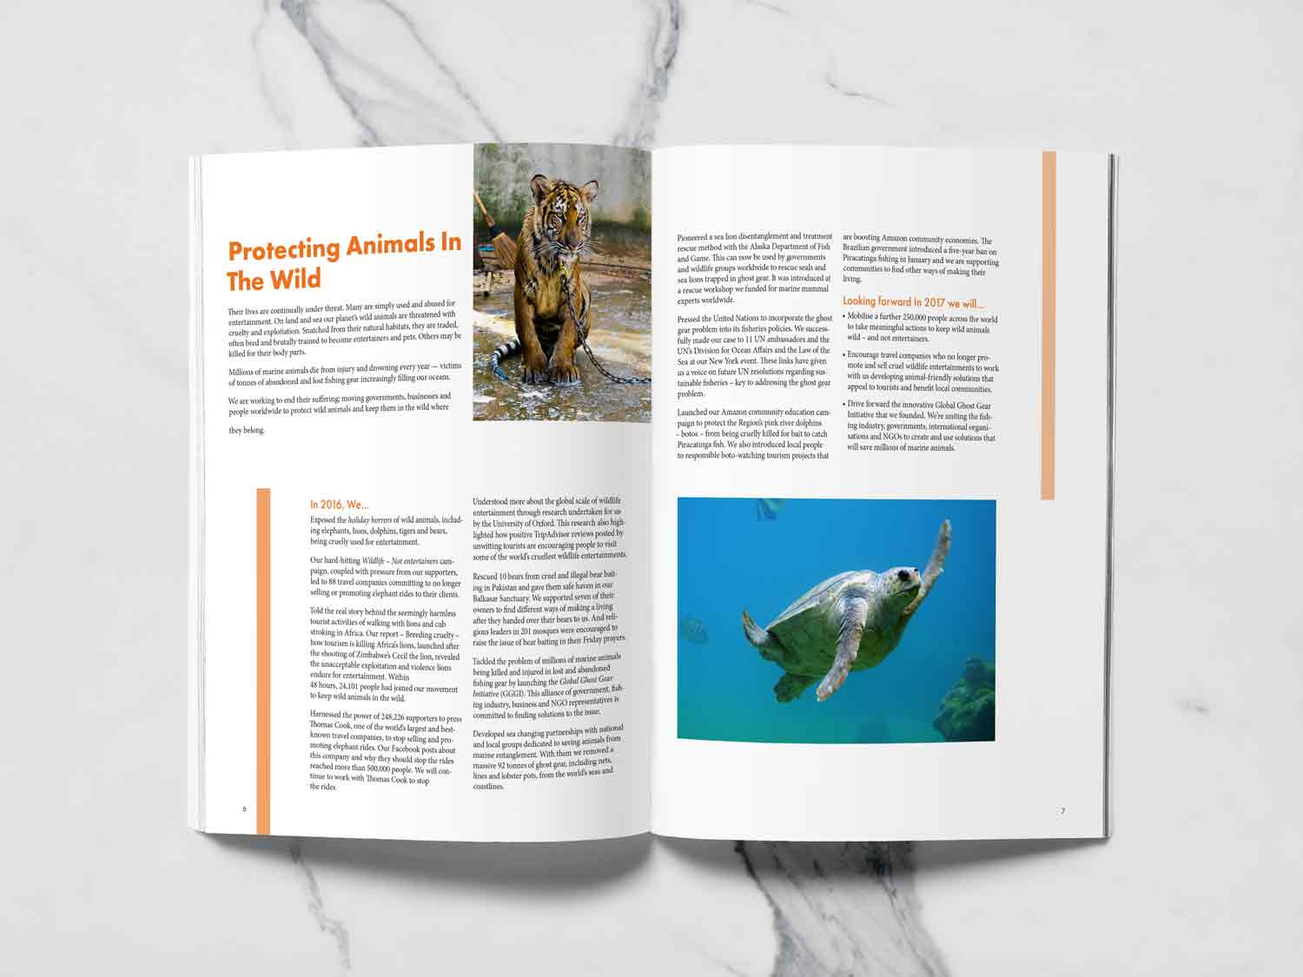
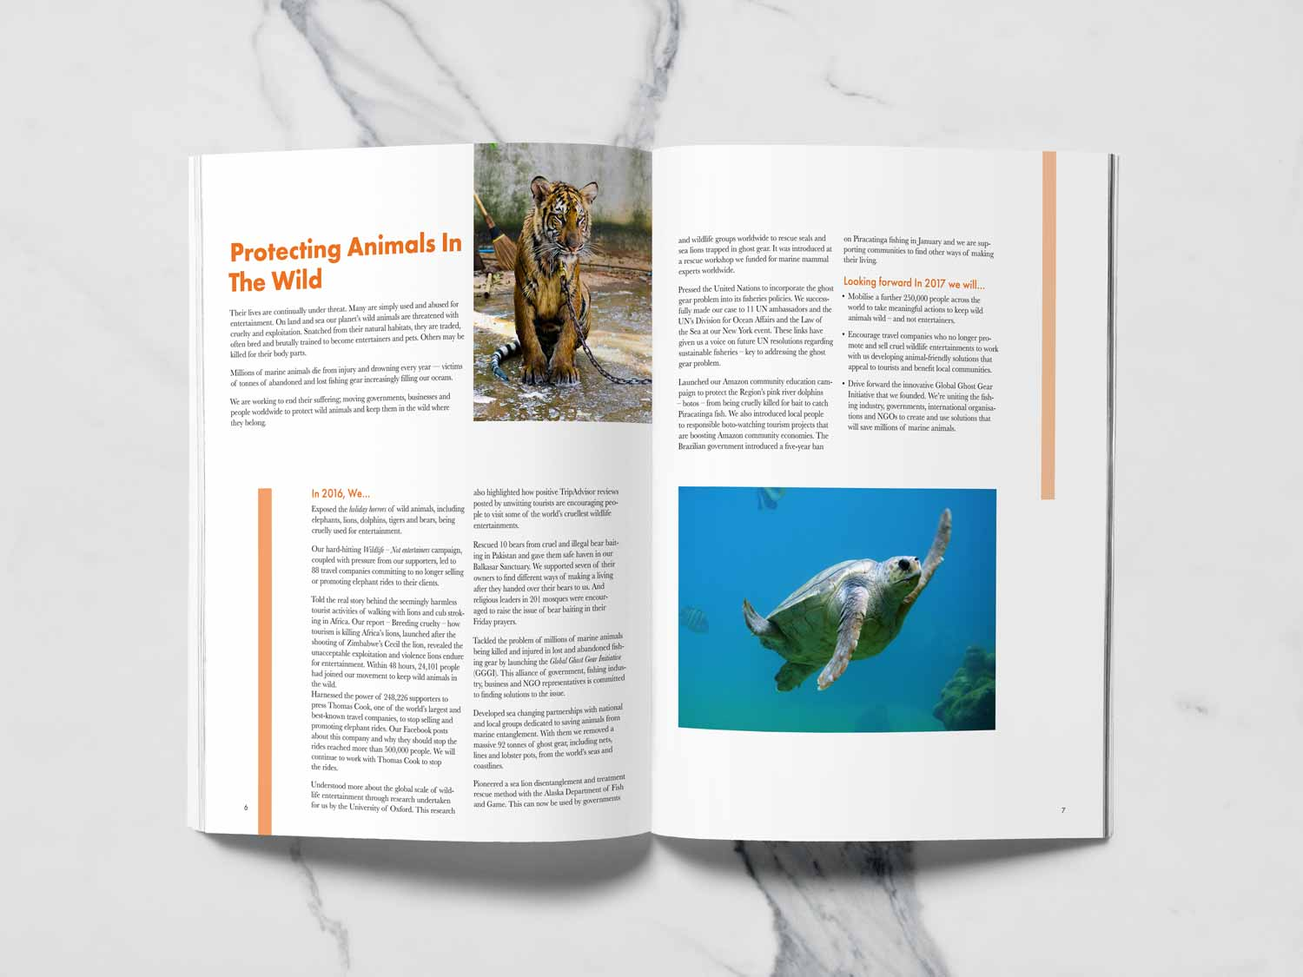
Added real images and changed header font

diff --git a/annual-report.html b/annual-report.html
@@ -1,11 +1,11 @@
 ---
 layout: default
-title: NAC Poster
+title: World Animal Protection Annual Report
 ---
 
   <main class="push-2 max-width wrapper">
     <div class="push">
-      <img itemprop="image" class="img-flex" src="https://via.placeholder.com/500x200" alt="">
+      <img itemprop="image" class="img-flex" src="{{site.baseurl}}/images/annual-report/banner.jpg" alt="">
     </div>
 
     <section class="gutter-2">
@@ -15,42 +15,42 @@ title: NAC Poster
         <img itemprop="image" class="embed-item center-block" src="{{site.baseurl}}/images/annual-report/front-cover.jpg" alt="">
       </div>
       <div class="">
-        <h2 class="push-0" id="deco-line-section-header-long">Project Scope</h2>
-        <p class="">This is a poster design I am very proud of. It was done for a class assignment in which were given the freedom to experiment with bold typography and layout. We were provided with the content for the poster from and old dance performance at the National Arts Centre entitled Telemetry. We drew images from the NAC website and had the freedom to use them as we liked.</p>
+        <h2 class="push-0 mega" id="deco-line-section-header-long">Project Scope</h2>
+        <p class="">This project was a practice in layouts for larger scale documents. The mock client was World Animal Protection and the assignemt was to design their annual report for 2016. It had to be in full colour with real images from their website.</p>
         <div class="push-2">
-          <img itemprop="image" class="img-flex" src="https://via.placeholder.com/1200x300" alt="">
+          <img itemprop="image" class="img-flex" src="{{site.baseurl}}/images/annual-report/mid-banner.jpg" alt="">
         </div>
 
         <div class="grid">
           <div class="unit xs-1 s-1 m-1 l-1">
-            <h2 class="push-1-2" id="deco-line-section-header-short">Design Process</h2>
+            <h2 class="push-0 mega" id="deco-line-section-header-short">Design Process</h2>
           </div>
 
           <div class="unit xs-1 s-1 m-1 l-1 push">
-            <p class="push-1-4">After choosing the photo for my poster I started this project with sketches. I had a plan in mind for a very complex text layout and it required a lot of planning. I ended up breaking down the dance pose I had chosen into different pieces and began placing different pieces of the text into the white space to see what would make the best fit. After doing this for each piece I began trying to fit it together.</p>
+            <p class="push-1-4">Step one was determining an appropraite layotu for the book. After reading through the material I began my process by creating some sketches of possible layout designs.</p>
           </div>
           <div class="unit xs-1 s-1-2 m-1-2 l-1-2 push">
             <img itemprop="image" class="img-flex" src="https://via.placeholder.com/200" alt="">
           </div>
           <div class="unit xs-1 s-1-2 m-1-2 l-1-2 push">
-            <img itemprop="image" class="img-flex" src="https://via.placeholder.com/200" alt="">
+            <img itemprop="image" class="img-flex" src="{{site.baseurl}}/images/annual-report/text-pairing.jpg" alt="">
           </div>
 
           <div class="unit xs-1 s-1 m-1 l-1 push">
-            <p class="push-1-4">Once I had a rough idea of where I wanted to place the text I moved into Indesign and began laying out the words. This is where I was able to get a true feel for the sizes of text I could use and how well the text would fit. I decided to create six levels of font size for the graphic type so that would be some level of consistency within the design. Once I had the sizes and placement of the text laid out I added colour and placed the informational text on the poster.</p>
+            <p class="push-1-4">After deciding on the basic layout design of my report, my next step was to decide on fonts and colour. The only colour used in the World Animal Protect logo other than black is and orange colour. I decided to use this throughout the report as accent colours. Choosing a header font was also made simple by sticking with their current brand. Across their website they use Futura, so this is what I decided to use for the headers. The task now was to find a body copy font that would pair well with it. I compared all the elements of the type faces with possible serif font until I found a matching pair.</p>
           </div>
           <div class="unit xs-1 s-1-2 m-1 l-1 push">
             <img itemprop="image" class="img-flex" src="{{site.baseurl}}/images/annual-report/pages-1.jpg" alt="">
           </div>
 
           <div class="unit xs-1 s-1 m-1 l-1 push">
-            <p class="push-1-4">To bring this design to the next level I decided to tun it into a moving poster rather than just a static poster. A moving poster would allow for more interest when used on screens and the web. I also wanted to bring the static poster to the next level and do a bit of a redesign of it. I chose a new dancer photo with a different pose. Rather than using a photograph again I decided to make the dancer more artistic and created a graphic illustration of the dancer instead. Choosing a new dance pose also required me to redesign the layout of the text.</p>
+            <p class="push-1-4">Once I had some layouts sketched and my InDesign file setup, I placed in the text and broke it into appropriate pages. Once this seperation was done I was able to begin applying layout to the pages based on my sketches. This stage allowed me to work out any kinks with my original sketches as I was able to see how the amount of copy there actaully was affected the design.</p>
           </div>
-          <div class="unit xs-1 s-1-2 m-1 l-1 push">
+          <div class="unit xs-1 s-1 m-1 l-1 push">
               <img itemprop="image" class="img-flex" src="{{site.baseurl}}/images/annual-report/cover.jpg" alt="">
           </div>
-          <div class="unit xs-1 s-1-2 m-1 l-1 push">
-            <p class="push-1-4">Once the new layout was created all that was left was to add movement to the words and the dancer. By placing all the text on different layers I was able to manipulate the text word by word and have them move with the dancer as he moves through his jump. This added even more depth and movement to the already dynamic poster design and brought it to the next level.</p>
+          <div class="unit xs-1 s-1 m-1 l-1 push">
+            <p class="push-1-4">The final product is a clean layout with a good balance of white space, text, and images. The colour accents are subtle yet pop on the page to make one cohesive piece.</p>
           </div>
         </div>
       </div>

diff --git a/type-layouts.html b/type-layouts.html
@@ -1,24 +1,24 @@
 ---
 layout: default
-title: NAC Poster
+title: Typography Layouts
 ---
 
   <main class="push-2 max-width wrapper">
     <div class="push">
-      <img itemprop="image" class="img-flex" src="{{site.baseurl}}/images/nac-poster/banner.jpg" alt="">
+      <img itemprop="image" class="img-flex" src="https://via.placeholder.com/500x200" alt="">
     </div>
 
     <section class="gutter-2">
-      <h1 itemprop="name" class="center-text normal">National Arts Centre Poster</h1>
+      <h1 itemprop="name" class="center-text normal">World Animal Protection Annual Report</h1>
 
       <div class="push-2 embed embed-3by2">
-        <img itemprop="image" class="embed-item center-block" src="{{site.baseurl}}/images/nac-poster/original-nac-poster-design.jpg" alt="">
+        <img itemprop="image" class="embed-item center-block" src="{{site.baseurl}}/images/annual-report/front-cover.jpg" alt="">
       </div>
       <div class="">
         <h2 class="push-0" id="deco-line-section-header-long">Project Scope</h2>
         <p class="">This is a poster design I am very proud of. It was done for a class assignment in which were given the freedom to experiment with bold typography and layout. We were provided with the content for the poster from and old dance performance at the National Arts Centre entitled Telemetry. We drew images from the NAC website and had the freedom to use them as we liked.</p>
         <div class="push-2">
-          <img itemprop="image" class="img-flex" src="{{site.baseurl}}/images/nac-poster/small-banner.jpg" alt="">
+          <img itemprop="image" class="img-flex" src="https://via.placeholder.com/1200x300" alt="">
         </div>
 
         <div class="grid">
@@ -26,33 +26,30 @@ title: NAC Poster
             <h2 class="push-1-2" id="deco-line-section-header-short">Design Process</h2>
           </div>
 
-          <div class="unit xs-1 s-1 m-1 l-1">
+          <div class="unit xs-1 s-1 m-1 l-1 push">
             <p class="push-1-4">After choosing the photo for my poster I started this project with sketches. I had a plan in mind for a very complex text layout and it required a lot of planning. I ended up breaking down the dance pose I had chosen into different pieces and began placing different pieces of the text into the white space to see what would make the best fit. After doing this for each piece I began trying to fit it together.</p>
           </div>
-          <div class="unit xs-1 s-1-2 m-1-2 l-1-2 push-2">
-            <img itemprop="image" class="img-flex" src="{{site.baseurl}}/images/nac-poster/sketches.jpg" alt="">
+          <div class="unit xs-1 s-1-2 m-1-2 l-1-2 push">
+            <img itemprop="image" class="img-flex" src="https://via.placeholder.com/200" alt="">
           </div>
-          <div class="unit xs-1 s-1-2 m-1-2 l-1-2 push-2">
-            <img itemprop="image" class="img-flex" src="{{site.baseurl}}/images/nac-poster/working.jpg" alt="">
+          <div class="unit xs-1 s-1-2 m-1-2 l-1-2 push">
+            <img itemprop="image" class="img-flex" src="https://via.placeholder.com/200" alt="">
           </div>
 
-          <div class="unit xs-1 s-1 m-1 l-1">
+          <div class="unit xs-1 s-1 m-1 l-1 push">
             <p class="push-1-4">Once I had a rough idea of where I wanted to place the text I moved into Indesign and began laying out the words. This is where I was able to get a true feel for the sizes of text I could use and how well the text would fit. I decided to create six levels of font size for the graphic type so that would be some level of consistency within the design. Once I had the sizes and placement of the text laid out I added colour and placed the informational text on the poster.</p>
           </div>
-          <div class="unit xs-1 s-1-2 m-1 l-1 push-2">
-            <img itemprop="image" class="img-flex" src="{{site.baseurl}}/images/nac-poster/redesigned-nac-poster-design.jpg" alt="">
+          <div class="unit xs-1 s-1-2 m-1 l-1 push">
+            <img itemprop="image" class="img-flex" src="{{site.baseurl}}/images/annual-report/pages-1.jpg" alt="">
           </div>
 
-          <div class="unit xs-1 s-1 m-1 l-1">
+          <div class="unit xs-1 s-1 m-1 l-1 push">
             <p class="push-1-4">To bring this design to the next level I decided to tun it into a moving poster rather than just a static poster. A moving poster would allow for more interest when used on screens and the web. I also wanted to bring the static poster to the next level and do a bit of a redesign of it. I chose a new dancer photo with a different pose. Rather than using a photograph again I decided to make the dancer more artistic and created a graphic illustration of the dancer instead. Choosing a new dance pose also required me to redesign the layout of the text.</p>
           </div>
-          <div class="unit xs-1 s-1-2 m-1 l-1 push-2">
-            <div style="padding:64.63% 0 0 0;position:relative;">
-              <iframe src="https://player.vimeo.com/video/297625784?autoplay=1&loop=1" style="position:absolute;top:0;left:0;width:100%;height:100%;" frameborder="0" webkitallowfullscreen mozallowfullscreen allowfullscreen></iframe>
-            </div>
-            <script src="https://player.vimeo.com/api/player.js"></script>
+          <div class="unit xs-1 s-1-2 m-1 l-1 push">
+              <img itemprop="image" class="img-flex" src="{{site.baseurl}}/images/annual-report/cover.jpg" alt="">
           </div>
-          <div class="unit xs-1 s-1-2 m-1 l-1">
+          <div class="unit xs-1 s-1-2 m-1 l-1 push">
             <p class="push-1-4">Once the new layout was created all that was left was to add movement to the words and the dancer. By placing all the text on different layers I was able to manipulate the text word by word and have them move with the dancer as he moves through his jump. This added even more depth and movement to the already dynamic poster design and brought it to the next level.</p>
           </div>
         </div>

diff --git a/skateboard-rotoscope.html b/skateboard-rotoscope.html
@@ -5,7 +5,7 @@ title: NAC Poster
 
   <main class="push-2 max-width wrapper">
     <div class="push">
-      <img itemprop="image" class="img-flex" src="https://via.placeholder.com/500x200" alt="">
+      <img itemprop="image" class="img-flex" src="{{site.baseurl}}/images/skateboard-rotoscope/banner.jpg" alt="">
     </div>
 
     <section class="gutter-2">
@@ -15,45 +15,33 @@ title: NAC Poster
         <img itemprop="image" class="embed-item center-block" src="{{site.baseurl}}/images/skateboard-rotoscope/skate-shot-1.jpg" alt="">
       </div>
       <div class="">
-        <h2 class="push-0" id="deco-line-section-header-long">Project Scope</h2>
-        <p class="">This is a poster design I am very proud of. It was done for a class assignment in which were given the freedom to experiment with bold typography and layout. We were provided with the content for the poster from and old dance performance at the National Arts Centre entitled Telemetry. We drew images from the NAC website and had the freedom to use them as we liked.</p>
+        <h2 class="push-0 mega" id="deco-line-section-header-long">Project Scope</h2>
+        <p class="">This project was a practice in rotoscoping. </p>
         <div class="push-2">
-          <img itemprop="image" class="img-flex" src="https://via.placeholder.com/1200x300" alt="">
+          <img itemprop="image" class="img-flex" src="{{site.baseurl}}/images/skateboard-rotoscope/small-banner.jpg" alt="">
         </div>
 
         <div class="grid">
           <div class="unit xs-1 s-1 m-1 l-1">
-            <h2 class="push-1-2" id="deco-line-section-header-short">Design Process</h2>
+            <h2 class="push-1-2 mega" id="deco-line-section-header-short">Design Process</h2>
           </div>
 
           <div class="unit xs-1 s-1 m-1 l-1 push">
-            <p class="push-1-4">After choosing the photo for my poster I started this project with sketches. I had a plan in mind for a very complex text layout and it required a lot of planning. I ended up breaking down the dance pose I had chosen into different pieces and began placing different pieces of the text into the white space to see what would make the best fit. After doing this for each piece I began trying to fit it together.</p>
-          </div>
-          <div class="unit xs-1 s-1-2 m-1-2 l-1-2 push">
-            <img itemprop="image" class="img-flex" src="https://via.placeholder.com/200" alt="">
-          </div>
-          <div class="unit xs-1 s-1-2 m-1-2 l-1-2 push">
-            <img itemprop="image" class="img-flex" src="https://via.placeholder.com/200" alt="">
+            <p class="push-1-4">The process here was simple. After finding video inspiration for the type of movement I wanted, I began drawing out the video in diferent frames. I chose to skip frames when drawing in the skateboarder, which created a choppy look to the video giving it a moe urban, street art feel. </p>
           </div>
 
-          <div class="unit xs-1 s-1 m-1 l-1 push">
-            <p class="push-1-4">Once I had a rough idea of where I wanted to place the text I moved into Indesign and began laying out the words. This is where I was able to get a true feel for the sizes of text I could use and how well the text would fit. I decided to create six levels of font size for the graphic type so that would be some level of consistency within the design. Once I had the sizes and placement of the text laid out I added colour and placed the informational text on the poster.</p>
-          </div>
           <div class="unit xs-1 s-1-2 m-1 l-1 push">
             <img itemprop="image" class="img-flex" src="{{site.baseurl}}/images/skateboard-rotoscope/skate-shot-2.jpg" alt="">
           </div>
 
           <div class="unit xs-1 s-1 m-1 l-1 push">
-            <p class="push-1-4">To bring this design to the next level I decided to tun it into a moving poster rather than just a static poster. A moving poster would allow for more interest when used on screens and the web. I also wanted to bring the static poster to the next level and do a bit of a redesign of it. I chose a new dancer photo with a different pose. Rather than using a photograph again I decided to make the dancer more artistic and created a graphic illustration of the dancer instead. Choosing a new dance pose also required me to redesign the layout of the text.</p>
+            <p class="push-1-4">I wanted the video to remain simple so it is purely line work with no extra effects on top.</p>
           </div>
           <div class="unit xs-1 s-1-2 m-1 l-1 push-2">
             <div style="padding:56.25% 0 0 0;position:relative;">
               <iframe src="https://player.vimeo.com/video/250324217?loop=1&title=0&byline=0&portrait=0" style="position:absolute;top:0;left:0;width:100%;height:100%;" frameborder="0" webkitallowfullscreen mozallowfullscreen allowfullscreen></iframe>
             </div>
             <script src="https://player.vimeo.com/api/player.js"></script>
-          </div>
-          <div class="unit xs-1 s-1-2 m-1 l-1 push">
-            <p class="push-1-4">Once the new layout was created all that was left was to add movement to the words and the dancer. By placing all the text on different layers I was able to manipulate the text word by word and have them move with the dancer as he moves through his jump. This added even more depth and movement to the already dynamic poster design and brought it to the next level.</p>
           </div>
         </div>
       </div>

diff --git a/vans-logo-animation.html b/vans-logo-animation.html
@@ -1,24 +1,24 @@
 ---
 layout: default
-title: NAC Poster
+title: Vans Logo Animation
 ---
 
   <main class="push-2 max-width wrapper">
     <div class="push">
-      <img itemprop="image" class="img-flex" src="{{site.baseurl}}/images/nac-poster/banner.jpg" alt="">
+      <img itemprop="image" class="img-flex" src="https://via.placeholder.com/500x200" alt="">
     </div>
 
     <section class="gutter-2">
-      <h1 itemprop="name" class="center-text normal">National Arts Centre Poster</h1>
+      <h1 itemprop="name" class="center-text normal">Vans Logo Animation</h1>
 
       <div class="push-2 embed embed-3by2">
-        <img itemprop="image" class="embed-item center-block" src="{{site.baseurl}}/images/nac-poster/original-nac-poster-design.jpg" alt="">
+        <img itemprop="image" class="embed-item center-block" src="https://via.placeholder.com/500x200" alt="">
       </div>
       <div class="">
         <h2 class="push-0" id="deco-line-section-header-long">Project Scope</h2>
-        <p class="">This is a poster design I am very proud of. It was done for a class assignment in which were given the freedom to experiment with bold typography and layout. We were provided with the content for the poster from and old dance performance at the National Arts Centre entitled Telemetry. We drew images from the NAC website and had the freedom to use them as we liked.</p>
+        <p class="">The assignment for this project was to create an animation video for an existing logo. I chose to create my based on the Vans logo because it is a brand I love and know well.</p>
         <div class="push-2">
-          <img itemprop="image" class="img-flex" src="{{site.baseurl}}/images/nac-poster/small-banner.jpg" alt="">
+          <img itemprop="image" class="img-flex" src="https://via.placeholder.com/1200x300" alt="">
         </div>
 
         <div class="grid">
@@ -27,20 +27,20 @@ title: NAC Poster
           </div>
 
           <div class="unit xs-1 s-1 m-1 l-1">
-            <p class="push-1-4">After choosing the photo for my poster I started this project with sketches. I had a plan in mind for a very complex text layout and it required a lot of planning. I ended up breaking down the dance pose I had chosen into different pieces and began placing different pieces of the text into the white space to see what would make the best fit. After doing this for each piece I began trying to fit it together.</p>
+            <p class="push-1-4">I started this process by creating some rough sketches which describe my vision for the video. I did this is a storyboard style, roughing out various stages in the video to demonstrate the stages of the animation. After this process was complete my next step was to create a style frame for the video which included all the assets I would need.</p>
           </div>
           <div class="unit xs-1 s-1-2 m-1-2 l-1-2 push-2">
-            <img itemprop="image" class="img-flex" src="{{site.baseurl}}/images/nac-poster/sketches.jpg" alt="">
+            <img itemprop="image" class="img-flex" src="https://via.placeholder.com/200" alt="">
           </div>
           <div class="unit xs-1 s-1-2 m-1-2 l-1-2 push-2">
-            <img itemprop="image" class="img-flex" src="{{site.baseurl}}/images/nac-poster/working.jpg" alt="">
+            <img itemprop="image" class="img-flex" src="https://via.placeholder.com/200" alt="">
           </div>
 
           <div class="unit xs-1 s-1 m-1 l-1">
-            <p class="push-1-4">Once I had a rough idea of where I wanted to place the text I moved into Indesign and began laying out the words. This is where I was able to get a true feel for the sizes of text I could use and how well the text would fit. I decided to create six levels of font size for the graphic type so that would be some level of consistency within the design. Once I had the sizes and placement of the text laid out I added colour and placed the informational text on the poster.</p>
+            <p class="push-1-4">One all the assets were created and I had a plan for my video it was time to start creating. </p>
           </div>
           <div class="unit xs-1 s-1-2 m-1 l-1 push-2">
-            <img itemprop="image" class="img-flex" src="{{site.baseurl}}/images/nac-poster/redesigned-nac-poster-design.jpg" alt="">
+            <img itemprop="image" class="img-flex" src="https://via.placeholder.com/500x300" alt="">
           </div>
 
           <div class="unit xs-1 s-1 m-1 l-1">

diff --git a/_layouts/default.html b/_layouts/default.html
@@ -5,7 +5,7 @@
   <title>{% if page.title %}{{page.title}} · {% endif %}Sarah Norris · Ottawa, Canada</title>
   <meta name="description" content="{{page.meta}}">
   <meta name="viewport" content="width=device-width,initial-scale=1">
-  <link href="https://fonts.googleapis.com/css?family=IBM+Plex+Mono|Open+Sans:400" rel="stylesheet">
+  <link href="https://fonts.googleapis.com/css?family=IBM+Plex+Mono|IBM+Plex+Sans:300" rel="stylesheet">
   <link href="{{site.baseurl}}/css/modules.css" rel="stylesheet">
   <link href="{{site.baseurl}}/css/grid.css" rel="stylesheet">
   <link href="{{site.baseurl}}/css/type.css" rel="stylesheet">
@@ -13,20 +13,17 @@
 
 </head>
 <body class="">
-  <header class="pad-t">
-    <div class="center-text push-0">
-      <a href="{{site.baseurl}}/index"><i class="icon i-32"><img src="{{site.baseurl}}/images/logo.svg"></i></a>
+  <header class="pad-t center-text">
+    <div class="push-1-4">
+      <a href="{{site.baseurl}}/index"><i class="icon i-64"><img src="{{site.baseurl}}/images/logo.svg"></i></a>
     </div>
-    <nav class="center-text push-2">
+    <nav class="push-2">
       <ul class="list-group-inline">
-        <li class="">
-          <a class="link-box micro" href="{{site.baseurl}}/">Home</a>
+        <li class="gutter-1-2">
+          <a class="link-box milli" href="{{site.baseurl}}/">Home</a>
         </li>
-        <li class="gutter" id="deco-line-header">
-          <a class="link-box micro" href="{{site.baseurl}}/about">About</a>
-        </li>
-        <li class="">
-          <a class="link-box micro" href="{{site.baseurl}}/work">Work</a>
+        <li class="gutter-1-2" id="deco-line-header">
+          <a class="link-box milli" href="{{site.baseurl}}/about">About</a>
         </li>
       </ul>
     </nav>
@@ -38,14 +35,14 @@
 
   <footer>
     <nav class="center-text">
-      <ul class="list-group-inline">
+      <ul class="list-group-inline push-0">
         <li><a itemprop="url" class="link-box micro" href="https://vimeo.com/user71120700">Vimeo</a></li>
         <li class="gutter-1-2"><a itemprop="url" class="link-box micro" href="https://www.instagram.com/sarahnorrisdesigned/">Instagram</a></li>
         <li><a itemprop="url" class="link-box micro" href="https://www.behance.net/norr0076173d">Behance</a></li>
       </ul>
     </nav>
-    <div class="center-text push-2">
-      <a class="micro link-box" href="mailto:hello@sarahnorrisdesign.ca">hello@sarahnorrisdesign.ca</a>
+    <div class="center-text push-1-4">
+      <a class="nano link-box" href="mailto:hello@sarahnorrisdesign.ca">hello@sarahnorrisdesign.ca</a>
     </div>
   </footer>
 </body>

diff --git a/index.html b/index.html
@@ -30,9 +30,9 @@ meta: Sarah Norris is a Motion and Typography Designer and Illustrator.
 
   <section class="grid push-2 center-text">
     <div class="unit xs-1 s-1 m-1-3 l-1-3 push-0 card">
-      <a href="{{site.baseurl}}/experimental-poster-design"><img itemprop="image" class="img-flex" src="https://via.placeholder.com/500">
+      <a href="{{site.baseurl}}/vans-logo-animation"><img itemprop="image" class="img-flex" src="https://via.placeholder.com/500">
         <div class="middle">
-          <p class="card-text">Experimental Poster Design</p>
+          <p class="card-text">Vans Logo Animation</p>
         </div>
       </a>
     </div>

diff --git a/css/main.css b/css/main.css
@@ -4,6 +4,10 @@
   margin: auto;
 }
 
+h1,h2 {
+  font-family: 'IBM Plex Sans', sans-serif;
+}
+
 h1 {
   font-weight: normal;
 }
